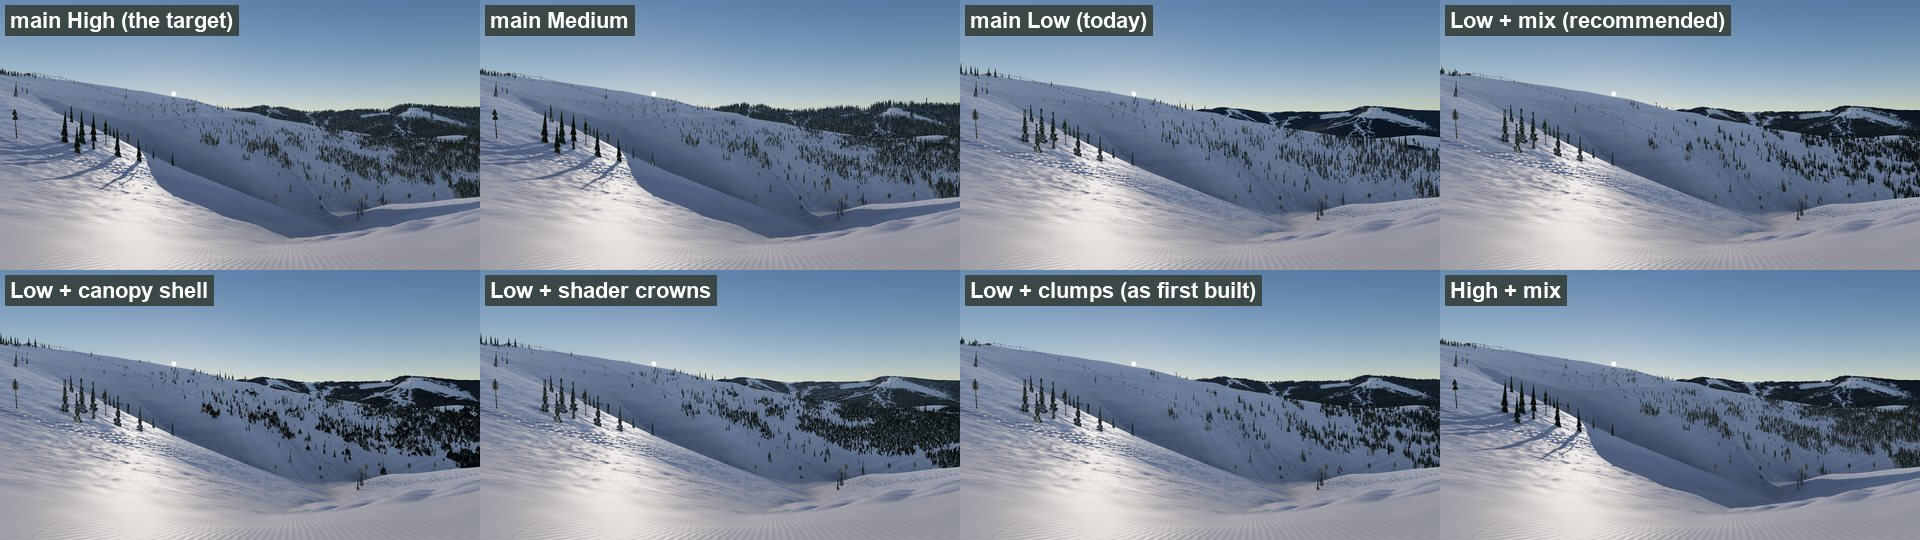
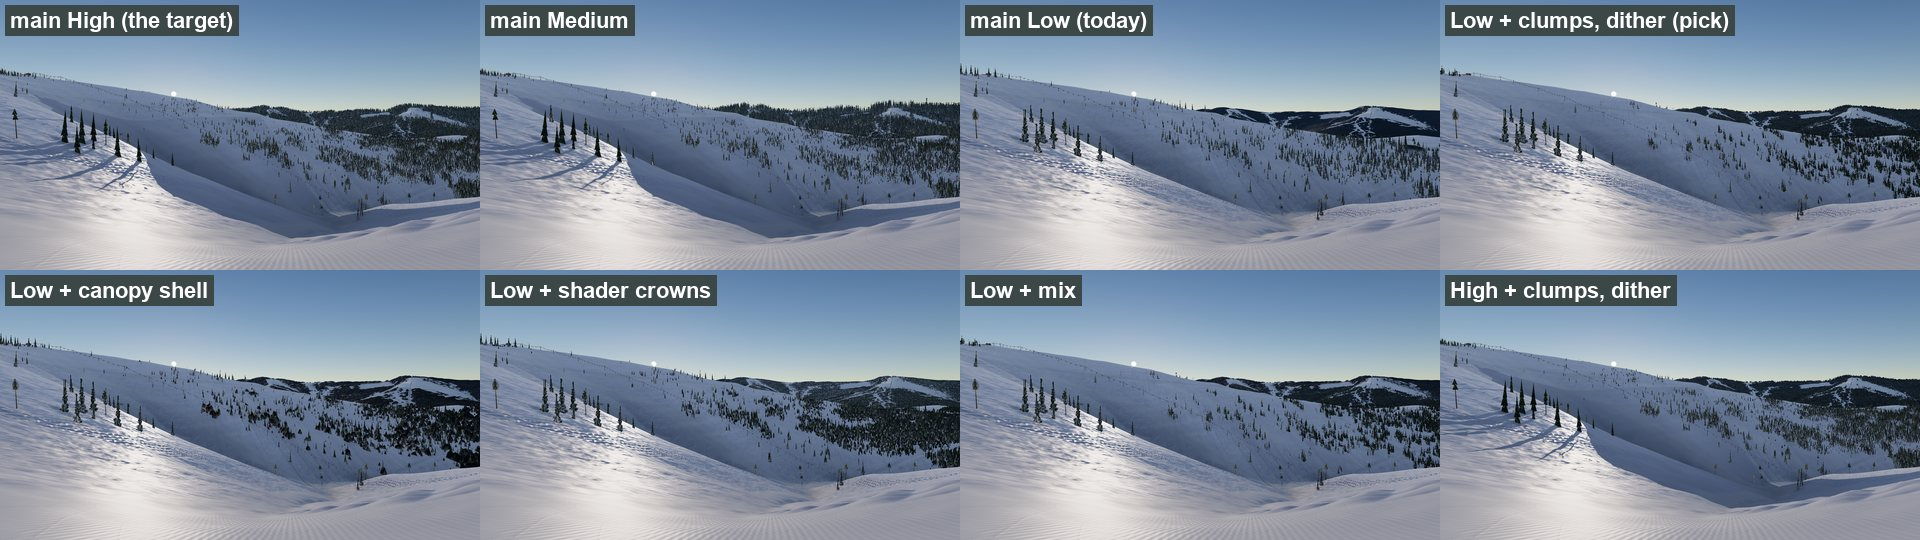
FEAT-278: Drew's pick after the second review: clump impostors with the crown dither; the mix kept as tried (seam at 4.5 km, shell clearings); dithered clumps' stills, clips and cost against main; grids regenerated

diff --git a/docs/research/far-forest-canopy.md b/docs/research/far-forest-canopy.md
@@ -2,15 +2,17 @@
 
 Card: [FEAT-278 (#614)](https://github.com/drewkeriazes/SnowboardAnywhere/issues/614). Related: BUG-114 (#612), BUG-074 (#417), BUG-069 (#387), FEAT-154 (#347), FEAT-184 (#434), FEAT-228 (#530), FEAT-236 (#556). Found along the way: BUG-120 (#632), BUG-121 (#633).
 
-A research and compare card: three ways to draw dense forest at 0.6 to 6 km were prototyped on their own branches, behind a URL flag, and measured against `main` at the same poses, light and settings. After Drew's review a fourth, a mix of two of them by distance, was built and measured the same way. Nothing here ships; the winner gets its own build card.
+A research and compare card: three ways to draw dense forest at 0.6 to 6 km were prototyped on their own branches, behind a URL flag, and measured against `main` at the same poses, light and settings. Drew's review sent it round twice more: a mix of two of them by distance, then the clump impostors with a crown dither, which won. Nothing here ships; the winner gets its own build card.
 
 ## Recommendation
 
-**A mix by distance (`issue-614-canopy-mix`, `?canopy=mix`): clump impostors from where the drawn trees end out to 4.5 km, then the canopy shell out to 14 km.** No one technique won every view (see [Review](#review-2026-11-13)): clumps are the best from the snow and the steadiest in motion but were flat from the air; the shell gives the far mountains texture and shape and hides the ground under them, but from the snow at 0.6 to 3 km it reads as dark blobs; shader crowns look best from the air but cost 3 to 9 ms. The mix uses each where it is strong, and adds a crown dither to the clumps so they keep their texture from the air ([The mix](#the-mix)).
+**Clump impostors with a crown dither** (`?canopy=clumps` on branch `issue-614-canopy-mix`, where the dither lives; Drew's pick, 2026-11-13). One camera-facing card per 64 m forest cell from where the drawn trees end out to 6 km (9 km on High), baked from the tree kit at load, thinned against the pack cover. Far off, where the baked atlas is averaged down, each pixel draws one crown (lit or shaded, snowy or bare, with the averaged chance), so the stands keep the speckle real trees make; where a crown is under about 2 px it fades back to the average, so it does not shimmer.
 
-On Low it reads close to High in all four views at noon and at dawn. GPU cost against `main` (1080p, ground / aerial): High -0.5 / -1.6 ms, Medium +0.1 / -0.2, Low -0.3 / +0.8 (+0.9 / +1.2 at 1440p). In the ride clip it flickers about as little as clumps alone (3.99 against `main`'s 3.87 on Low; 4.50 against 4.89 on High) and has under half of `main`'s pop-ins at the Low tree edge (8 against 19 in the top-left third of the frame, BUG-121). It needs nothing new in the pack.
+Why, view by view (see [Review](#review-2026-11-13) and [The mix](#the-mix)): clumps were already the best from the snow and the steadiest in motion; the dither fixed their one loss, the flat look from the air (worst at dawn). The mix (clumps, then the canopy shell past 4.5 km) was built to give the far mountains the shell's texture, but where the two met there was a hard colour line across the far ridges, and the shell's clearings were larger than High's. Dithered clumps alone have no seam, and on the far ridges they match `main` High's runs, clearings and treed skyline more closely than the shell did. Shader crowns still look best from the air but cost 3 to 9 ms.
 
-What the build card has to decide: whether High uses the mix too, or keeps `main`'s impostors with the shell only past 9 km (on High the mix is cheaper but a small step down from today; see [The mix](#the-mix)). What it has to add (from the prototypes' gaps, below): the shell reads stem density as well as the detected crowns, so its clearings stop being larger than High's; the shell's tile builds off the main thread (330 ms over about 80 frames today, up to 7.6 ms in one); fewer shell draw calls on Low (+38 for the mix); more than one species mix in the clumps; conservative depth so the clump cards keep early-Z; the clump bake off the load path; the clumps' dawn tone (still darker than High's warm-lit crowns); a check of the 4.5 km seam and of runtime setting changes in a real ride; render-budget and synth-pack coverage.
+Numbers against `main` (1080p, ground / aerial; two alternating passes per build): High 0 / -7%, Medium +1 / -1%, Low +8 / +7% (about +0.7 / +0.9 ms at the GPU's usual clocks; that run shared the GPU with other work, so read the percentages). Tree draw calls on High 525 to 460, about 40 MB less geometry. Ride clip flicker 3.96 on Low (`main` 3.87) and 4.48 on High (`main` 4.89, the steadiest of every build); pop-ins at the Low tree edge in the top-left third of the frame 7 against `main`'s 19 (BUG-121). Nothing new in the pack.
+
+What the build card has to add (from the prototype's gaps, below): more than one species mix (one conifer stand today; species per cell from MapPacker would allow mixed stands); conservative depth so the cards keep early-Z (`gl_FragDepth` today); the bake off the load path (90 to 140 ms, synchronous); the dawn tone (still darker than High's warm-lit crowns); a slightly greener, smoother look than High's impostors past 2.5 km on High; the reach on Low and Medium (6 km; 9 km keeps the furthest ridges textured at dawn for about +0.5 ms on Low); a check of the handover and runtime setting changes in a real ride; render-budget and synth-pack coverage. Related next step, not part of this card: precomputed mountain shading at low sun (FEAT-290, #639).
 
 ## The problem
 
@@ -36,7 +38,7 @@ Fixed poses in `game/tools/canopy-views.json` (pack metres, heading from grid no
 - **Handover:** `game/tools/canopy_clip.mjs` glides the eye camera 500 m down The Slot at 25 m/s looking at the middle of the Sun Up Express, Low and High, 30 fps. Two numbers from each clip, over the whole frame (decoded to 640x360): flicker, the mean temporal second difference per pixel (smooth motion mostly cancels), and pops, a 16 px block whose brightness steps between two frames while holding steady for 4 frames either side (something appeared or vanished rather than slid past), binned to a 3x3 grid of the frame. The first write-up measured only rows 25 to 60% and reported no pops; that missed the pop-ins Drew saw at the top left on Low.
 - **Baselines:** `main` at each preset. `main` High is the brute-force look the card calls right.
 
-The full set (every build, preset, view and light, 1080p frames and native-pixel 1440p crops, a full-size flip view, and the handover clips) is on the comparison page, a private claude.ai artifact: https://claude.ai/artifact/2gWCh56cdmCCSaZNAceLgA. Grids of Low with each candidate against `main`, and the mix on High (1080p, scaled):
+The full set (every build, preset, view and light, 1080p frames and native-pixel 1440p crops, a full-size flip view, and the handover clips) is on the comparison page, a private claude.ai artifact: https://claude.ai/artifact/2gWCh56cdmCCSaZNAceLgA. Grids of Low with each candidate against `main`, and the dithered clumps on High (1080p, scaled):
 
 | View | Noon | Low sun (7.6 h) |
 |---|---|---|
@@ -92,34 +94,39 @@ What was tried on the way, on Low at the aerial and The Slot corner, noon and da
 
 Gaps seen in the mix: past 4.5 km the shell leaves larger white clearings than High (it reads only the detected crowns map, `cover/pack-stands.png` G, while High also draws the generated stems); the shell's ridgelines are smooth where High's have tree tops; the seam at 4.5 km was not checked in a live ride. On **High** the mix is a small step down from `main` High, the target: past 2.5 km the clumps read greener and smoother than `main`'s per-tree impostors, and past 4.5 km the shell's clearings show. The build card has to choose whether High keeps `main`'s impostors out to 9 km with the shell only past them (High looks as today; the mix's 0.5 to 1.6 ms saving there is given up), or takes the mix and fixes those two gaps.
 
+6. **Drew's second look: the seam.** On the page (High, Below the sign, noon) the line where the clumps hand over to the shell runs as a hard colour change along the far ridges: the clumps greener and lighter, the shell a darker navy with larger white clearings. Matching the shell's tone could soften it, but the two would still differ in texture along one line.
+7. **Dithered clumps alone** (`?canopy=clumps` on the mix branch: the clumps with steps 3 and 4, to 6 km, and to 9 km on High where the trees already reach that far). No seam, and on the far ridges they match `main` High's runs, clearings and treed skyline more closely than the shell (crops on the page, Below the sign). Drew confirmed the aerial reads well and picked them. Reaching 9 km on Low as well (`?clumpfar=9000`) keeps the furthest ridges textured at dawn instead of smoothing slightly, for about +0.5 ms on Low in a single pass; a choice for the build card.
+
+So the mix is not recommended: its one strength, the far mountains, holds up better with dithered clumps, and it brings a seam, the shell's clearings and its build hitches.
+
 ## Comparison
 
-GPU ms per frame, change against `main` at the same view and preset (lower of two passes). "Ground" is the mean of the three ground views; the aerial is its own column because forest fills most of that frame. Shell, crowns and clumps were measured in the first session; the mix in a second session against `main` measured again in that session, alternating (main 1080p ground / aerial there: High 10.2 / 15.6, Medium 9.3 / 13.7, Low 9.3 / 12.1).
+GPU ms per frame, change against `main` at the same view and preset (lower of two passes). "Ground" is the mean of the three ground views; the aerial is its own column because forest fills most of that frame. Shell, crowns and clumps were measured in the first session; the mix in a second session and the dithered clumps in a third, each against `main` measured again in that session, alternating. The third session's GPU ran about 50% slower throughout (`main` Low ground / aerial 13.1 / 18.8 ms against 8.6 / 12.5; other work shared the machine; the two passes per build agreed within 0.1 ms), so its column gives the change in per cent and, in brackets, that per cent of the first session's `main`.
 
-| | `main` ground / aerial | Shell | Crowns | Clumps | **Mix** |
-|---|---|---|---|---|---|
-| High 1080p | 10.3 / 15.4 | +0.0 / +0.1 | +2.9 / +8.4 | -0.1 / -0.3 | **-0.5 / -1.6** |
-| Medium 1080p | 9.4 / 13.8 | +0.1 / +0.1 | +3.5 / +9.1 | +0.1 / -0.1 | **+0.1 / -0.2** |
-| Low 1080p | 8.6 / 12.5 | +0.2 / +0.2 | +3.3 / +8.3 | +0.6 / +0.5 | **-0.3 / +0.8** |
-| High 1440p | 14.6 / 22.1 | -0.1 / +0.1 | +5.2 / +14.9 | +0.0 / -1.4 | **-0.7 / -2.2** |
-| Medium 1440p | 13.4 / 19.9 | +0.3 / +0.1 | +5.1 / +14.0 | +0.6 / +0.1 | **+0.1 / -0.5** |
-| Low 1440p | 12.5 / 18.1 | +0.4 / +1.1 | +5.1 / +13.4 | +0.8 / +0.9 | **+0.9 / +1.2** |
+| | `main` ground / aerial | Shell | Crowns | Clumps | Mix | **Clumps + dither** (recommended) |
+|---|---|---|---|---|---|---|
+| High 1080p | 10.3 / 15.4 | +0.0 / +0.1 | +2.9 / +8.4 | -0.1 / -0.3 | -0.5 / -1.6 | **0% / -7% (0 / -1.0)** |
+| Medium 1080p | 9.4 / 13.8 | +0.1 / +0.1 | +3.5 / +9.1 | +0.1 / -0.1 | +0.1 / -0.2 | **+1% / -1% (+0.1 / -0.2)** |
+| Low 1080p | 8.6 / 12.5 | +0.2 / +0.2 | +3.3 / +8.3 | +0.6 / +0.5 | -0.3 / +0.8 | **+8% / +7% (+0.7 / +0.9)** |
+| High 1440p | 14.6 / 22.1 | -0.1 / +0.1 | +5.2 / +14.9 | +0.0 / -1.4 | -0.7 / -2.2 | **+1% / -6% (+0.1 / -1.3)** |
+| Medium 1440p | 13.4 / 19.9 | +0.3 / +0.1 | +5.1 / +14.0 | +0.6 / +0.1 | +0.1 / -0.5 | **+2% / -1% (+0.3 / -0.2)** |
+| Low 1440p | 12.5 / 18.1 | +0.4 / +1.1 | +5.1 / +13.4 | +0.8 / +0.9 | +0.9 / +1.2 | **+9% / +8% (+1.1 / +1.5)** |
 
 The mix's Low ground figure at 1080p (-0.3) is within the noise (one `main` pass on Low was disturbed and discarded); read it as no change. It was measured before the dither fade (step 4 above), which adds one `fwidth` per clump pixel.
 
-| | Canopy shell | Clump impostors | Shader crowns | **Mix** (clumps to 4.5 km, shell past) |
-|---|---|---|---|---|
-| **Looks, Low** | Big step up: speckled crown mass with white runs. From the air close to High. From the snow the 0.6 to 2 km band is dark cones and blotches with more white between than High's spires; dark and harsh at dawn | Closest to High in every view, noon and dawn: uneven crown tops, runs and glades cut clean, single trees on sparse slopes. Gaps: a rounder "carpet" than High's spires at 2 to 4 km, smoother skylines, wider-looking trails, less snow speckle in dense stands. Flat from the air, worst at dawn (Drew's review) | Good from the snow: crowns with parallax and white between. From the air the closest to High (Drew's review; the first write-up called it too speckled). Flat tops on stands seen edge on (capped walks); no tree silhouettes on ridgelines; at 720p slopes past 2.5 km are still the slab | Close to High in all four views, noon and dawn: clumps within 4.5 km (with the crown dither, textured from the air too), the shell's texture on the far ridges. Gaps: clearings past 4.5 km larger than High's; smooth far ridgelines; dawn darker than High |
-| **Looks, Medium and High** | Unchanged (fills only past the impostors) | Close to `main`, slightly greener and smoother past 1.9 / 2.5 km | Unchanged | Clumps 1.9 / 2.5 to 4.5 km, the shell past, in place of `main`'s impostors to 5.4 / 9 km |
-| **Flicker in the clip, whole frame, Low / High** (`main` 3.87 / 4.89) | 4.10 / 4.89 | 3.91 / 4.48, the steadiest | 4.30 / 4.94, the most | 3.99 / 4.50 (4.28 / 4.70 before the dither fade) |
-| **Pops in the clip, Low / High** (`main` 78 / 55; top-left third of the frame 19 / 3) | 74 / 52; top left 21 / 2 | 53 / 58; top left 7 / 4 | 70 / 52; top left 19 / 5 | 53 / 57; top left 8 / 4 |
-| **Draw calls (1080p)** | Low +77 to +81, Medium +24 to +30, High +15 to +17 | +1 on Low; High 65 fewer (tree draws 99 to 31 to 42) | 0 | Low +38, Medium +12, High 28 fewer (four-view means) |
-| **Triangles** | Low +0.7 M | Low +0.07 M; High -0.2 M | 0 | Low +0.35 M, Medium +0.26 M, High +0.04 M |
-| **GPU memory** | Low 31 to 35 MB, High 7 MB of tile buffers | 24 MB of atlases plus 1 to 3 MB of instances; High drops about 40 MB of tree geometry | None (uses a spare channel) | 24 MB of clump atlases plus 17 MB of shell tiles (136 tiles); scene geometry Low +23 MB, High -18 MB |
-| **One-off build** | Low 730 ms over 163 frames, up to 6 to 8 ms in one frame; 23 MB of CPU for the crown pyramid | Bake 85 to 140 ms at load (synchronous), placement spread over frames | None | Clump bake 90 to 140 ms at load; shell 330 ms over about 80 frames, up to 7.6 ms in one; the CPU crown pyramid (23 MB) |
-| **Pack data** | None new. A per-texel canopy height would help the near band (MapPacker) | None new. Species per cell would allow mixed stands (MapPacker) | None new | None new; both MapPacker notes apply |
-| **Effort to production** | 6 to 9 days | 5 to 8 days | 4 to 7 days, and under 1 ms is not assured | 8 to 12 days (both, plus the seam) |
-| **Main risks** | Draw calls on Low; main-thread build hitches; LOD pops between tile levels; looks least like trees near | `gl_FragDepth` costs early-Z on every covered pixel; one conifer mix; repetition on big uniform slopes; trees swap identity in the handover band | Fragment cost scales with on-screen forest, on a terrain shader already over half the frame (FEAT-236); register pressure for every terrain pixel | Both sets of risks, though the shell's worst (its near band, its 4 m tiles) are gone; a seam at 4.5 km between two different looks |
+| | Canopy shell | Clump impostors | Shader crowns | Mix (clumps to 4.5 km, shell past) | **Clumps + dither** (recommended) |
+|---|---|---|---|---|---|
+| **Looks, Low** | Big step up: speckled crown mass with white runs. From the air close to High. From the snow the 0.6 to 2 km band is dark cones and blotches with more white between than High's spires; dark and harsh at dawn | Closest to High in every view, noon and dawn: uneven crown tops, runs and glades cut clean, single trees on sparse slopes. Gaps: a rounder "carpet" than High's spires at 2 to 4 km, smoother skylines, wider-looking trails, less snow speckle in dense stands. Flat from the air, worst at dawn (Drew's review) | Good from the snow: crowns with parallax and white between. From the air the closest to High (Drew's review; the first write-up called it too speckled). Flat tops on stands seen edge on (capped walks); no tree silhouettes on ridgelines; at 720p slopes past 2.5 km are still the slab | Close to High in all four views, noon and dawn: clumps within 4.5 km (with the crown dither, textured from the air too), the shell's texture on the far ridges. Gaps: clearings past 4.5 km larger than High's; smooth far ridgelines; dawn darker than High | Close to High in all four views, noon and dawn, from the snow and from the air; no seam; the far ridges' runs and clearings match High. Gaps: dawn darker than High; the clump gaps (rounder carpet, smoother skylines) remain, smaller |
+| **Looks, Medium and High** | Unchanged (fills only past the impostors) | Close to `main`, slightly greener and smoother past 1.9 / 2.5 km | Unchanged | Clumps 1.9 / 2.5 to 4.5 km, the shell past, in place of `main`'s impostors to 5.4 / 9 km | As clumps, with the dither: close to `main`, slightly greener and smoother past 1.9 / 2.5 km |
+| **Flicker in the clip, whole frame, Low / High** (`main` 3.87 / 4.89) | 4.10 / 4.89 | 3.91 / 4.48, the steadiest | 4.30 / 4.94, the most | 3.99 / 4.50 (4.28 / 4.70 before the dither fade) | 3.96 / 4.48 |
+| **Pops in the clip, Low / High** (`main` 78 / 55; top-left third of the frame 19 / 3) | 74 / 52; top left 21 / 2 | 53 / 58; top left 7 / 4 | 70 / 52; top left 19 / 5 | 53 / 57; top left 8 / 4 | 54 / 56; top left 7 / 5 |
+| **Draw calls (1080p)** | Low +77 to +81, Medium +24 to +30, High +15 to +17 | +1 on Low; High 65 fewer (tree draws 99 to 31 to 42) | 0 | Low +38, Medium +12, High 28 fewer (four-view means) | Low +1, Medium -25, High -65 (as clumps) |
+| **Triangles** | Low +0.7 M | Low +0.07 M; High -0.2 M | 0 | Low +0.35 M, Medium +0.26 M, High +0.04 M | Low +0.06 M, High -0.18 M |
+| **GPU memory** | Low 31 to 35 MB, High 7 MB of tile buffers | 24 MB of atlases plus 1 to 3 MB of instances; High drops about 40 MB of tree geometry | None (uses a spare channel) | 24 MB of clump atlases plus 17 MB of shell tiles (136 tiles); scene geometry Low +23 MB, High -18 MB | As clumps: 24 MB of atlases; High about 40 MB less geometry |
+| **One-off build** | Low 730 ms over 163 frames, up to 6 to 8 ms in one frame; 23 MB of CPU for the crown pyramid | Bake 85 to 140 ms at load (synchronous), placement spread over frames | None | Clump bake 90 to 140 ms at load; shell 330 ms over about 80 frames, up to 7.6 ms in one; the CPU crown pyramid (23 MB) | As clumps: bake 90 to 140 ms at load |
+| **Pack data** | None new. A per-texel canopy height would help the near band (MapPacker) | None new. Species per cell would allow mixed stands (MapPacker) | None new | None new; both MapPacker notes apply | None new. Species per cell would allow mixed stands (MapPacker) |
+| **Effort to production** | 6 to 9 days | 5 to 8 days | 4 to 7 days, and under 1 ms is not assured | 8 to 12 days (both, plus the seam) | 5 to 8 days |
+| **Main risks** | Draw calls on Low; main-thread build hitches; LOD pops between tile levels; looks least like trees near | `gl_FragDepth` costs early-Z on every covered pixel; one conifer mix; repetition on big uniform slopes; trees swap identity in the handover band | Fragment cost scales with on-screen forest, on a terrain shader already over half the frame (FEAT-236); register pressure for every terrain pixel | Both sets of risks, though the shell's worst (its near band, its 4 m tiles) are gone; a seam at 4.5 km between two different looks | As clumps; the dither adds a hash and an `fwidth` per pixel |
 
 The baselines also say something: on this GPU High (2.1M trees and sun shadows) costs only about 1.7 ms more GPU than Low at 1080p (10.3 against 8.6 ms on the ground views). High's price is memory (about 90 MB more geometry), loading and CPU more than GPU time.
 
@@ -151,7 +158,7 @@ $env:SHOT_DIST='C:\Users\Drew\git\wt614-clump-impostors\game\dist'; $env:SHOT_PA
 node tools/launcher.mjs --port 5191 --no-open
 ```
 
-then open `http://localhost:5191/?pack=vail&canopy=clumps` (or `shell`, `crowns` with that branch's `dist`; `mix` with `wt614-canopy-mix`'s, the recommended one). Set Graphics to Low to see the difference; Auto quality changes the reach while riding.
+then open `http://localhost:5191/?pack=vail&canopy=clumps` (or `shell`, `crowns` with that branch's `dist`; and with `wt614-canopy-mix`'s `dist`, `clumps` there is the recommended dithered clumps and `mix` the mix). Set Graphics to Low to see the difference; Auto quality changes the reach while riding.
 
 ## Tools added
 
